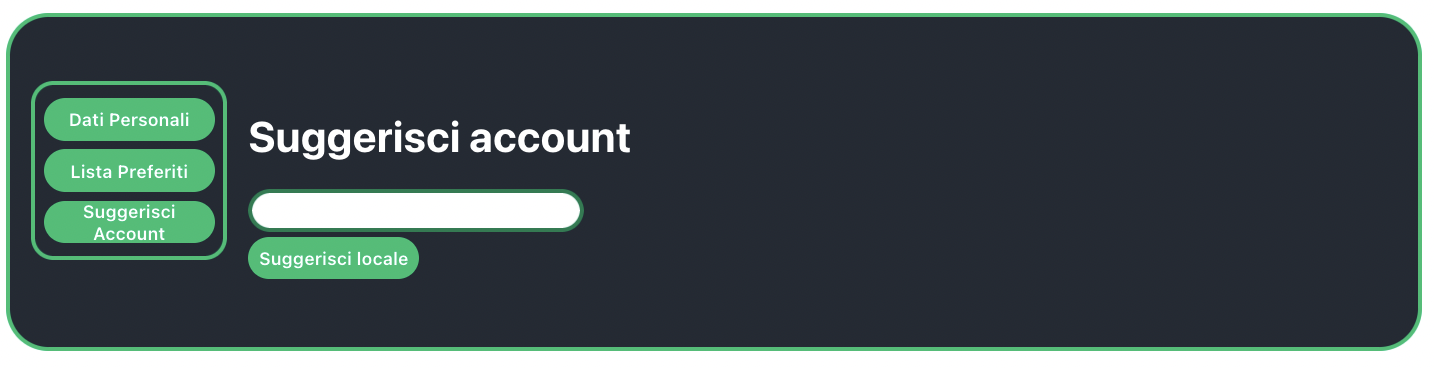
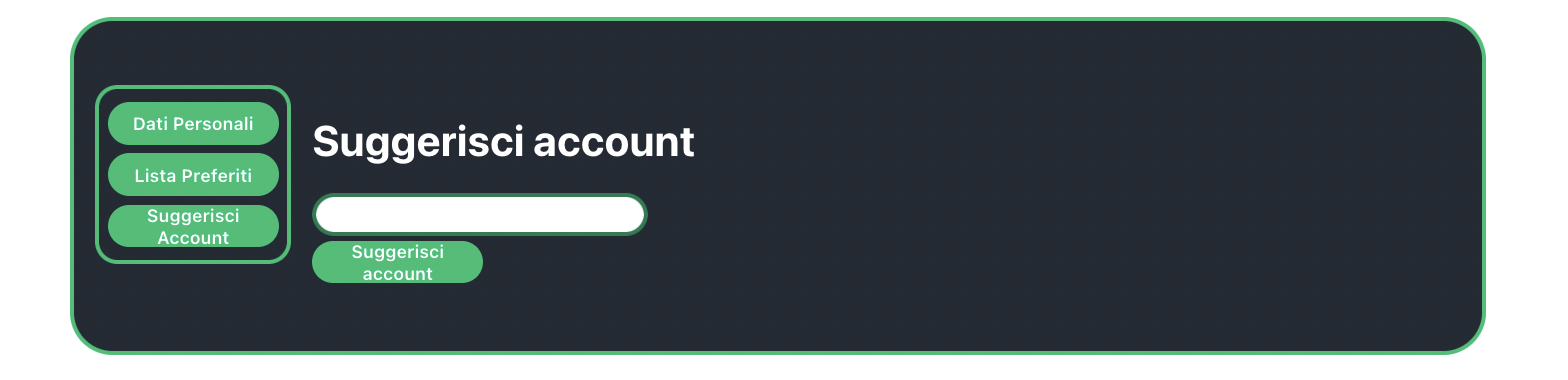
Manuale utente aggiornato
Aggiornato il manuale utente, aggiunti i casi del suggerisci profilo.

Manuale da sistemare

Changed region(s): [[0.0, 0.0299, 1.0, 0.9565]]

diff --git a/ManualeUtente/Contenuti/AreaPersonale.tex b/ManualeUtente/Contenuti/AreaPersonale.tex
@@ -54,7 +54,48 @@ Per fare ciò, dalla pagina “Area Personale” un utente può cliccare sulla v
 \caption{Suggerisci profilo}
 \end{figure}
 
-Al suo interno, l’utente potrà inserire il nome utente del profilo Instagram da suggerire alla piattaforma. Questa funzionalità non è ancora stata implementata.
+Al suo interno, l’utente potrà inserire il nome utente del profilo Instagram da suggerire alla piattaforma. 
+
+Una volta suggerito il profilo, si potranno ottenere quattro diverse risposte:
+
+\begin{itemize}
+\item Profilo aggiunto correttamente,
+\item Profilo già presente a sistema,
+\item Profilo inesistente,
+\item Profilo privato.
+\end{itemize}
+
+Nel caso in cui il profilo suggerito venga aggiunto a sistema correttamente:
+
+\begin{figure}[H]
+\centering
+\includegraphics[scale=0.4]{./images/AreaPersonale/ProfiloAggiunto.png} 
+\caption{Profilo suggerito aggiunto correttamente}
+\end{figure}
+
+Nel caso in cui il profilo sia già presente a sistema:
+
+\begin{figure}[H]
+\centering
+\includegraphics[scale=0.4]{./images/AreaPersonale/ProfiloPresenteNelDB.png} 
+\caption{Profilo suggerito già presente a sistema}
+\end{figure}
+
+Nel caso in cui il profilo suggerito non esiste su Instagram:
+
+\begin{figure}[H]
+\centering
+\includegraphics[scale=0.4]{./images/AreaPersonale/ProfiloInesistente.png} 
+\caption{Profilo suggerito inesistente}
+\end{figure}
+
+Infine, è possibile che un profilo suggerito sia privato:
+
+\begin{figure}[H]
+\centering
+\includegraphics[scale=0.4]{./images/AreaPersonale/ProfiloPrivato.png} 
+\caption{Profilo suggerito aggiunto correttamente}
+\end{figure}
 
 \subsection{Lista dei preferiti}
 

diff --git a/ManualeUtente/Struttura/RegistroModifiche.tex b/ManualeUtente/Struttura/RegistroModifiche.tex
@@ -7,6 +7,8 @@
 	\rowcolor{darkblue}
 	\textcolor{white}{\textbf{Versione}} &\textcolor{white}{\textbf{Data}}& \textcolor{white}{\textbf{Nominativo}} & \textcolor{white}{\textbf{Ruolo}}&\textcolor{white}{\textbf{Descrizione}}\\ 
 
+	v1.0.1 & 2022-06-13 & \GC & \PR & Aggiornato \S{7.3}, (\VE: \textit{\PV}).\\
+
 	v1.0.0 & 2022-05-31 & \MG & \RE & Approvazione per il rilascio.	 \\
 	
 	v0.1.0 & 2022-05-24 & \GC & \PR & Verifica di coerenza e consistenza complessiva. (\VE: \textit{\PV}). \\

diff --git a/ManualeUtente/Struttura/Intro.tex b/ManualeUtente/Struttura/Intro.tex
@@ -16,8 +16,8 @@
 \begin{tabular}{r|c}
 \multicolumn{2}{c}{\textbf{Informazioni sul Documento}} \\
 \hline \\
-\textbf{Versione} & 1.0.0 \\ \rule{0pt}{3ex}   
-\textbf{Data di Approvazione} & 2022-05-31 \\ \rule{0pt}{3ex}    
+\textbf{Versione} &  \\ \rule{0pt}{3ex}   
+\textbf{Data di Approvazione} & 2022-06- \\ \rule{0pt}{3ex}    
 \textbf{Approvatori} & \MG \\ \rule{0pt}{3ex}   
 \textbf{Redattori} & \GC{} \\ \rule{0pt}{3ex}    
 \textbf{Verificatori} & \PV{} \\ \rule{0pt}{3ex}     
